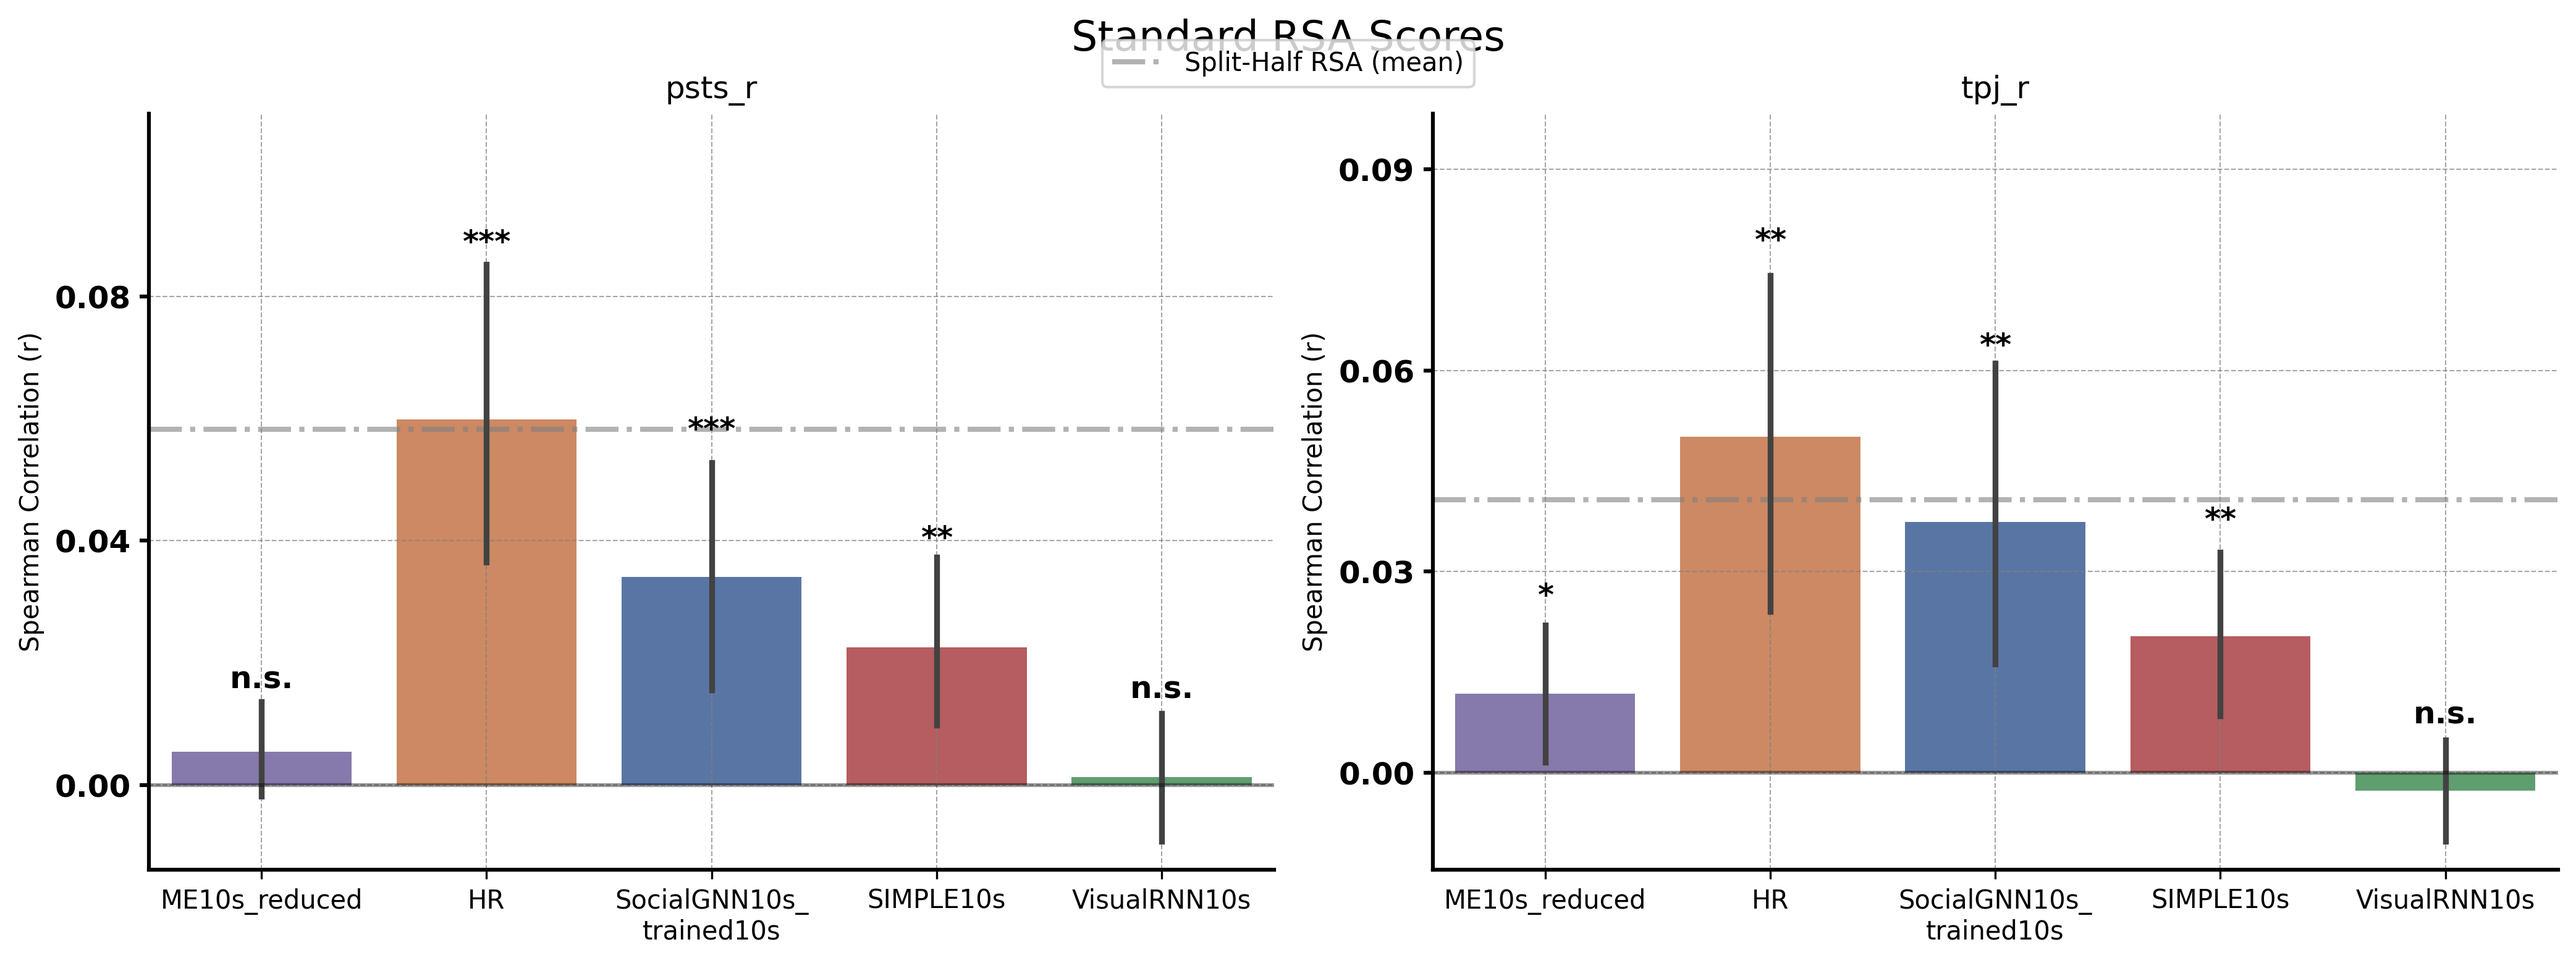
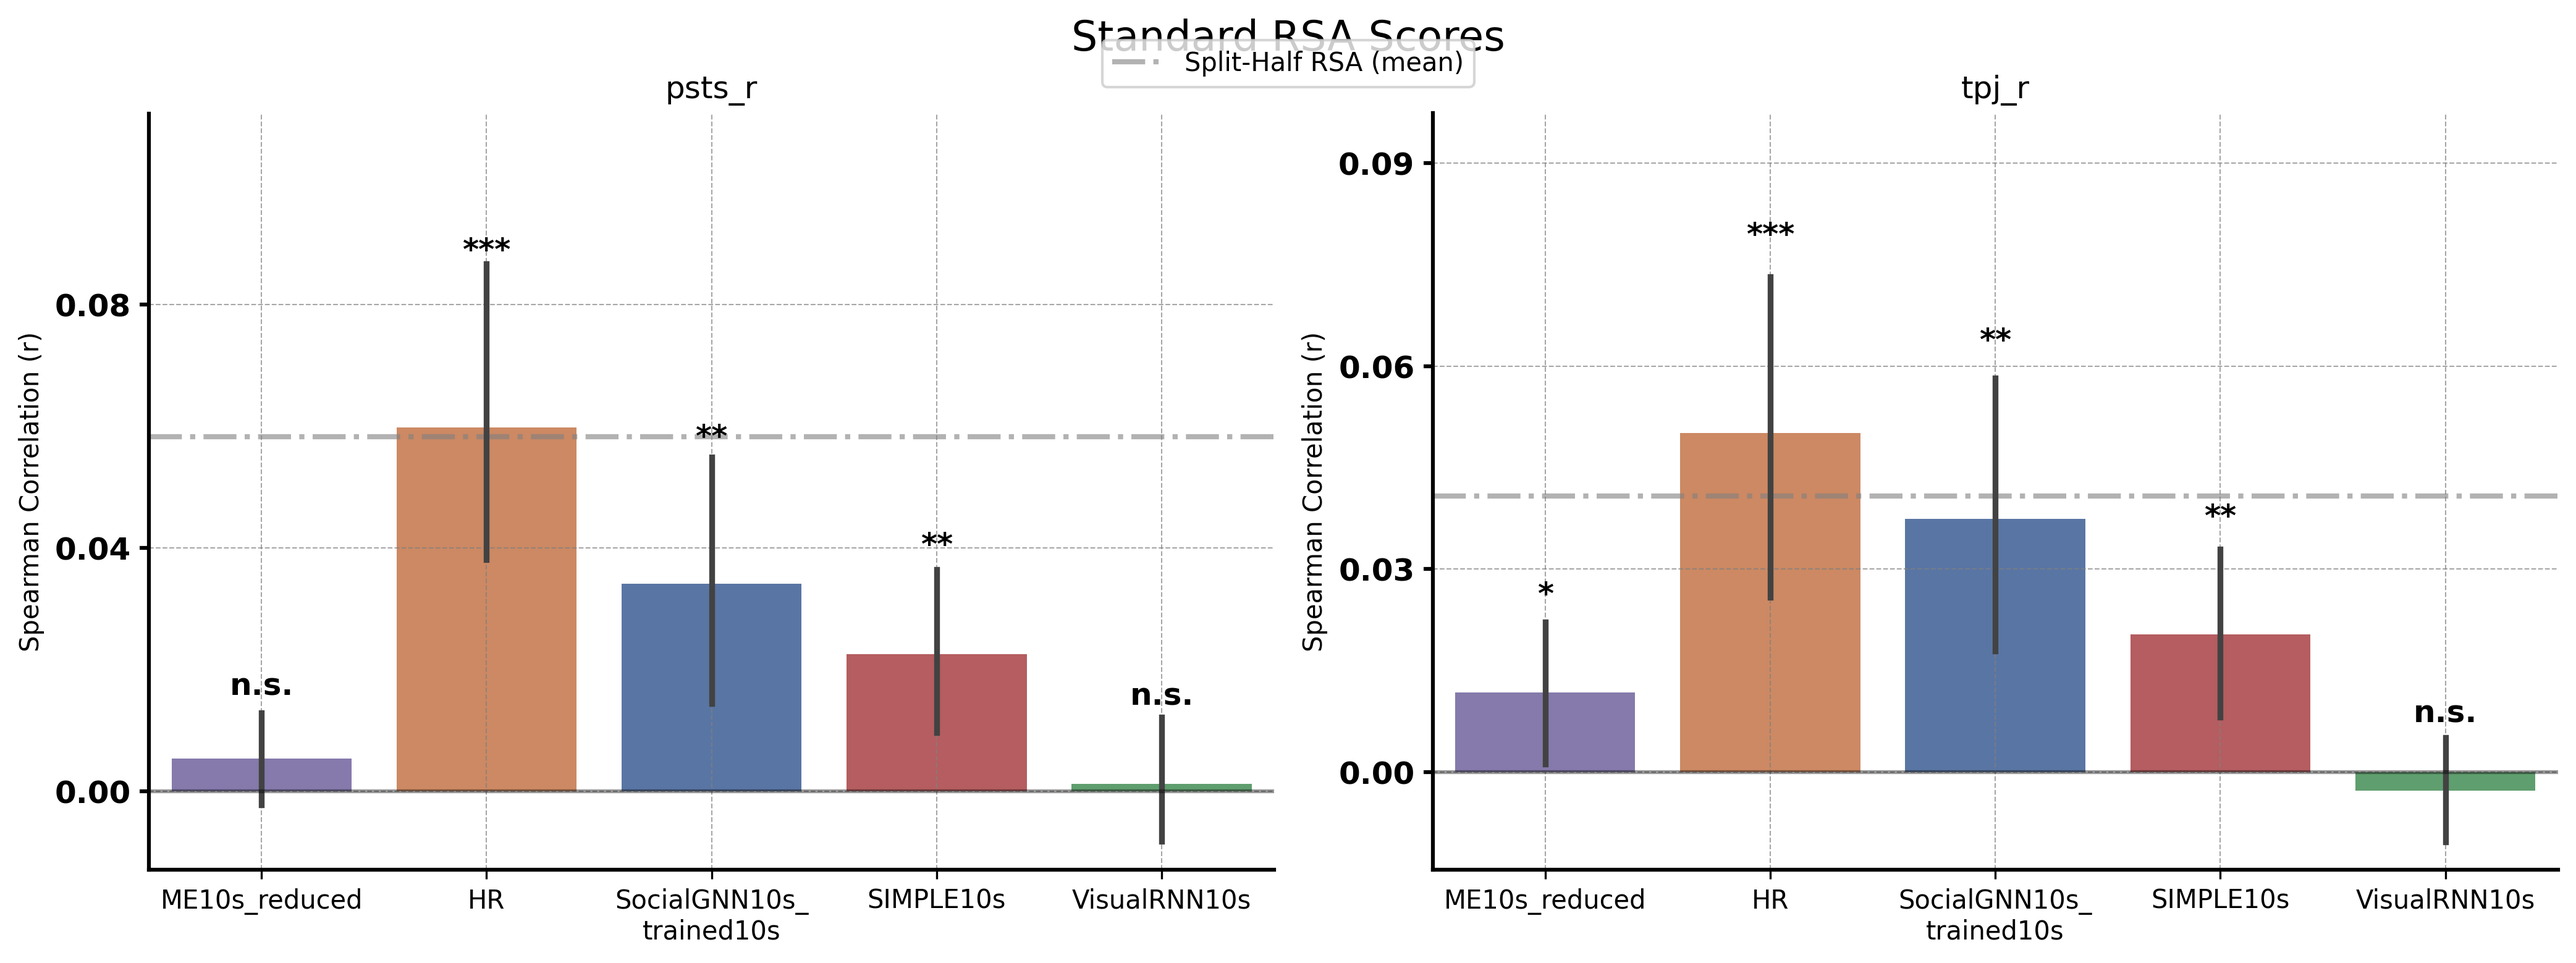
code clean up

diff --git a/code/preprocessing/README.md b/code/preprocessing/README.md
@@ -18,3 +18,13 @@ Each 10-second video trial was modeled with one response estimate.
 ```
 python glm.py --sid=$1 --task=main --space=MNI152NLin2009cAsym --smooth=4
 ```
+
+## 2-second chunk estimates
+
+For the time-resolved analyses, each 10-second video was divided into five
+2-second chunks, with a separate response estimate for each chunk.
+
+```
+python glm_2schunks.py --sid=$1 --task=main --space=MNI152NLin2009cAsym --smooth=4
+```
+
